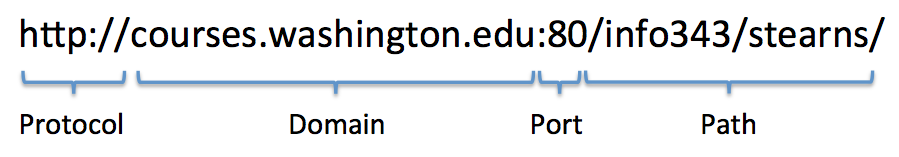
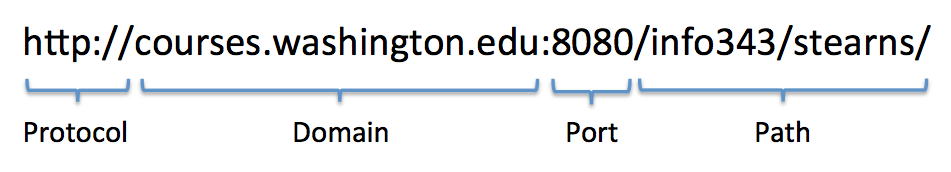
More on first lecture

diff --git a/lectures/intro/index.html b/lectures/intro/index.html
@@ -37,7 +37,7 @@
       <div class="reveal">
           <div class="slides">
 
-            <section>
+            <section data-background="background.jpg">
                 <h1>INFO 343</h1>
                 <h2>Web Technologies</h2>
                 <p>Autumn 2013</p>
@@ -81,8 +81,7 @@
 
             <section>
                 <h2>What's this course about?</h2>
-                <h3>Short Answer</h3>
-                <p>Building the client-side portions of effective and engaging web sites/applications that solve real people's problems.</p>
+                <p>This course will teach you how to build the client-side parts of web sites and applications. You'll learn all the technical bits you need to know, but you'll also learn how to design pages that are intuitive, effective, and engaging.</p>
             </section>
 
             <section>
@@ -98,6 +97,8 @@
                     <li>Handy Web Development Tools</li>
                     <li>Popular CSS/JS Frameworks</li>
                     <li>Content Management Systems</li>
+                    <li>Version Control Systems</li>
+                    <li>Automated Testing</li>
                 </ul>
             </section>
 
@@ -105,6 +106,7 @@
                 <h2>Techniques</h2>
                 <ul>
                     <li>Responsive Web Design</li>
+                    <li>Progressive Enhancement and Graceful Degredation</li>
                     <li>AJAX and Mashups</li>
                     <li>Reusable JavaScript libraries</li>
                     <li>Project Organization and Management</li>
@@ -130,7 +132,7 @@
 
             <section>
                 <h2>Why Should I Take This Course?</h2>
-                <p class="fragment">If you're an Informatics major, <strong>it's required!</strong></p>
+                <p class="fragment">If you're an Informatics major, <strong>you have to!</strong></p>
                 <p class="fragment">But even if you didn't have to take it, you really should.</p>
                 <p class="fragment">Web technologies will increasingly be an integral part of nearly every job, as well as everyday life.</p>
                 <p class="fragment">There are currently more web development jobs than talented web developers.</p>
@@ -172,12 +174,13 @@
                 <h2>How hard do I need to work?</h2>
                 <p class="fragment">Very hard! (Duh!)</p>
                 <p class="fragment">You will be graded on the <em>quality of your finished work</em>, not on how hard your tried, nor how much you improved.</p>
+                <p class="fragment">I will expect a lot from you, and will help you become a professional.</p>
             </section>
 
             <section>
                 <h2>What do I need to get/have?</h2>
                 <p>There are <strong>no required books!</strong></p>
-                <p class="fragment">But, there will be online articles to read for each class <br> (see <a href="https://canvas.uw.edu/courses/">Canvas</a>)</p>
+                <p class="fragment">But, there will be online articles to read for each class <br> (see Course Schedule in <a href="https://canvas.uw.edu/courses/">Canvas</a>).</p>
             </section>
 
             <section>
@@ -220,7 +223,7 @@
             </section>                
 
             <section>
-                <h2>Questions?</h2>
+                <h2>Questions About the Course?</h2>
                 <p><img src="../../img/question.jpg" alt="Questions?"></p>
             </section>
 
@@ -232,10 +235,11 @@
             <section>
                 <p><em>Ask the person next to you...</em></p>
                 <p>What's the difference between "the Internet" and "the World Wide Web?"</p>
+                <p><img src="../../img/www.jpg" alt="WWW image" title="Digital World Map Circuit by Nutdanai Apikhomboonwaroot / FreeDigitalPhotos.net"></p>
             </section>
 
             <section>
-                <p>The Web is only one type of application that utilizes the Internet</p>
+                <p>The Web is only one type of application that utilizes the Internet.</p>
                 <p><img src="internet-vs-web.png" alt="Box diagram showing the Web as an application using the Internet"></p>
             </section>
 
@@ -250,7 +254,7 @@
                     <li>Each message needs:
                         <ul>
                             <li>IP Address: a unique number assigned to each computer by the network</li>
-                            <li>Port: a number on which the target service is listening</li>
+                            <li>Port Number: a number on which the target service is listening</li>
                         </ul>
                     </li>
                 </ul>
@@ -285,8 +289,8 @@ Host: www.washington.edu</code></pre>
                     <li><code>www.washington.edu</code>
                         <ul>
                             <li>edu = top-level domain for educational institutions</li>
-                            <li>washington = sub-domain of edu</li>
-                            <li>www = sub-domain of washington.edu</li>
+                            <li>washington = sub-domain of edu, registered to UW</li>
+                            <li>www = sub-domain of washington.edu, defined by UW</li>
                         </ul>
                     </li>
                 </ul>
@@ -295,7 +299,7 @@ Host: www.washington.edu</code></pre>
             <section>
                 <h2>DNS</h2>
                 <ul>
-                    <li>New domains (e.g., iloveinfo343.com) can be purchased from an "accredited registrar" (e.g., Name Cheap, Go Daddy) for a period of time.</li>
+                    <li>New domains (e.g., <code>iloveinfo343.com</code>) can be purchased from an "accredited registrar" (e.g., Name Cheap, Go Daddy).</li>
                     <li>Purchaser then updates the DNS records with the IP address of target server.</li>
                 </ul>
             </section>
@@ -304,24 +308,134 @@ Host: www.washington.edu</code></pre>
                 <h2>HTTP</h2>
                 <p>The Internet allows computer to talk, but it doesn't specify what they talk <em>about</em>.</p>
                 <p class="fragment">HTTP (Hypertext Transfer Protocol) defines a language for sending and receiving "resources" managed by a web server.</p>
-                <p class="fragment">By convention, web servers listen for HTTP messages on port 80.</p>
                 <p class="fragment">Resources are identified using Uniform Resource Locators (URLs).</p>
             </section>
 
             <section>
                 <h2>URLs</h2>
                 <p><img src="url.png" alt="URL diagram showing various parts"></p>
-                <p class="fragment"><img src="url-port.png" alt="URL diagram with port number added"></p>
             </section>
 
             <section>
-                <h2>URLs</h2>
+                <p>By convention, web servers listen for HTTP messages on port 80, but if the server has been configured differently, you can specify the port number in the URL as well.</p>
+                <p><img src="url-port.png" alt="URL diagram with port number added"></p>
+            </section>
+
+            <section>
+                <h2>Are you Tracking?</h2>
                 <p>So what does your browser do when you enter <code>http://www.google.com/</code> in the address bar?</p>
+                <p>What steps does it go through?</p>
             </section>
 
             <section>
                 <h2>Let's Take a Break!</h2>
                 <div><img src="../../img/take-a-break.jpg" alt="Take a break!"></div>
+            </section>
+
+            <section>
+                <h2>Your First Web Page</h2>
+                <p>Web pages are written in the HyperText Markup Language (HTML)</p>
+                <pre><code data-trim>&lt;!doctype html&gt;
+&lt;html lang="en"&gt;
+    &lt;head&gt;
+        &lt;title&gt;My First Page&lt;/title&gt;
+    &lt;/head&gt;
+    &lt;body&gt;
+        &lt;p&gt;Hello World!&lt;/p&gt;
+    &lt;/body&gt;
+&lt;/html&gt;</code></pre>
+            </section>
+
+            <section>
+                <h2>Doctype Directive</h2>
+                <p>Tells your browser what kind of document this is (HTML 5).</p>
+                <pre><code data-trim>&lt;!doctype html&gt;</code></pre>
+            </section>
+
+            <section>
+                <h2>Elements</h2>
+                <p>Marks content as being of a particular type.</p>
+                <p>Encodes meaning into otherwise plain text.</p>
+                <p>Content can be text and/or other elements.</p>
+                <pre><code>&lt;name&gt;...content...&lt;/name&gt;</code></pre>
+            </section>
+
+            <section>
+                <h2>Attributes</h2>
+                <p>Extends the element with additional information or options.</p>
+                <pre><code data-trim>
+&lt;name attribute="value" attribute="value"&gt;
+    ...content...
+&lt;/name&gt;</code></pre>
+            </section>
+
+            <section>
+                <h2>Attributes</h2>
+                <p>Some attributes are merely markers, and don't need a value</p>
+                <pre><code data-trim>
+&lt;name marker-attribute&gt;
+    ...content...
+&lt;/name&gt;</code></pre>
+            </section>
+
+            <section>
+                <h2>Comments</h2>
+                <p>Downloaded to client, but not displayed.</p>
+                <pre><code>&lt;!-- this is a comment --&gt;</code></pre>
+            </section>
+
+            <section>
+                <h2>Basic Document Structure</h2>
+                <pre><code data-trim>&lt;!doctype html&gt;
+&lt;html lang=&quot;en&quot;&gt;
+    &lt;head&gt;
+        ... non-visible info about the page ...
+    &lt;/head&gt;
+    &lt;body&gt;
+        ... visible content ...
+    &lt;/body&gt;
+&lt;/html&gt;</code></pre>
+            </section>
+
+            <section>
+                <h2>The Head Section</h2>
+                <p>Lots of elements can go in here, but this is a very basic set.</p>
+                <pre><code>&lt;head&gt;
+    &lt;meta charset=&quot;utf-8&quot;&gt;
+    &lt;meta name=&quot;description&quot; content=&quot;...short page description...&quot;&gt;
+    &lt;meta name=&quot;author&quot; content=&quot;...your name...&quot;&gt;
+    &lt;title&gt;My Page Title&lt;/title&gt;
+&lt;/head&gt;</code></pre>
+            </section>
+
+            <section>
+                <h2>The Body Section</h2>
+                <p>Lots and lots of elements can go in here.</p>
+                <pre><code>&lt;h1&gt;Top-Level Heading&lt;/h1&gt;
+&lt;p&gt;This is a paragraph&lt;/p&gt;
+
+&lt;h2&gt;Second-Level Heading&lt;/h2&gt;
+&lt;p&gt;Another paragraph&lt;/p&gt;
+
+&lt;!-- an image --&gt;
+&lt;p&gt;&lt;img src=&quot;mycat.jpg&quot; alt=&quot;cute cat&quot;&gt;&lt;/p&gt;
+
+&lt;!-- an unordered list --&gt;
+&lt;p&gt;Grocery List:&lt;/p&gt;
+&lt;ul&gt;
+    &lt;li&gt;Pizza&lt;/li&gt;
+    &lt;li&gt;Chips&lt;/li&gt;
+    &lt;li&gt;Beer&lt;/li&gt;
+&lt;/ul&gt;</code></pre>
+            </section>
+
+            <section>
+                <h2>Try it Yourself!</h2>
+                <p>Download the <a href="template.html" target="_blank">template.html</a> file and try adding some content.</p>
+            </section>
+
+            <section>
+                <h2>Managing Your Files</h2>
             </section>
 
           </div> <!-- .slides -->
@@ -345,12 +459,12 @@ Host: www.washington.edu</code></pre>
 
                 // Optional libraries used to extend on reveal.js
                 dependencies: [
-                    { src: 'lib/js/classList.js', condition: function() { return !document.body.classList; } },
-                    { src: 'plugin/markdown/marked.js', condition: function() { return !!document.querySelector( '[data-markdown]' ); } },
-                    { src: 'plugin/markdown/markdown.js', condition: function() { return !!document.querySelector( '[data-markdown]' ); } },
-                    { src: 'plugin/highlight/highlight.js', async: true, callback: function() { hljs.initHighlightingOnLoad(); } },
-                    { src: 'plugin/zoom-js/zoom.js', async: true, condition: function() { return !!document.body.classList; } },
-                    { src: 'plugin/notes/notes.js', async: true, condition: function() { return !!document.body.classList; } }
+                    { src: '../../lib/reveal/lib/js/classList.js', condition: function() { return !document.body.classList; } },
+                    { src: '../../lib/reveal/plugin/markdown/marked.js', condition: function() { return !!document.querySelector( '[data-markdown]' ); } },
+                    { src: '../../lib/reveal/plugin/markdown/markdown.js', condition: function() { return !!document.querySelector( '[data-markdown]' ); } },
+                    { src: '../../lib/reveal/plugin/highlight/highlight.js', async: true, callback: function() { hljs.initHighlightingOnLoad(); } },
+                    { src: '../../lib/reveal/plugin/zoom-js/zoom.js', async: true, condition: function() { return !!document.body.classList; } },
+                    { src: '../../lib/reveal/plugin/notes/notes.js', async: true, condition: function() { return !!document.body.classList; } }
                 ]
             });
 

diff --git a/lectures/intro/template.html b/lectures/intro/template.html
@@ -1,0 +1,14 @@
+<!doctype html>
+<html lang="en">
+	<head>
+		<meta charset="utf-8">
+		<meta name="description" content="...page description...">
+		<meta name="author" content="...your name...">
+		<title>My First Page</title>
+	</head>
+	<body>
+		<!-- put your page content here -->
+		<p>Hello World!</p>
+
+	</body>
+</html>
